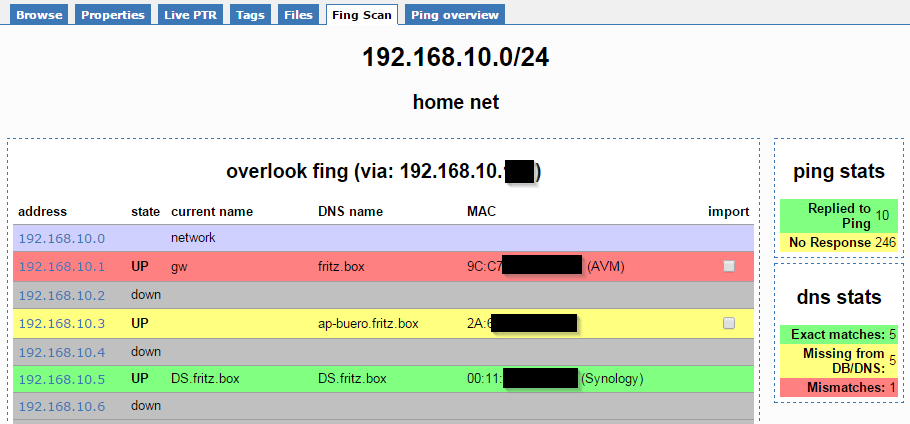
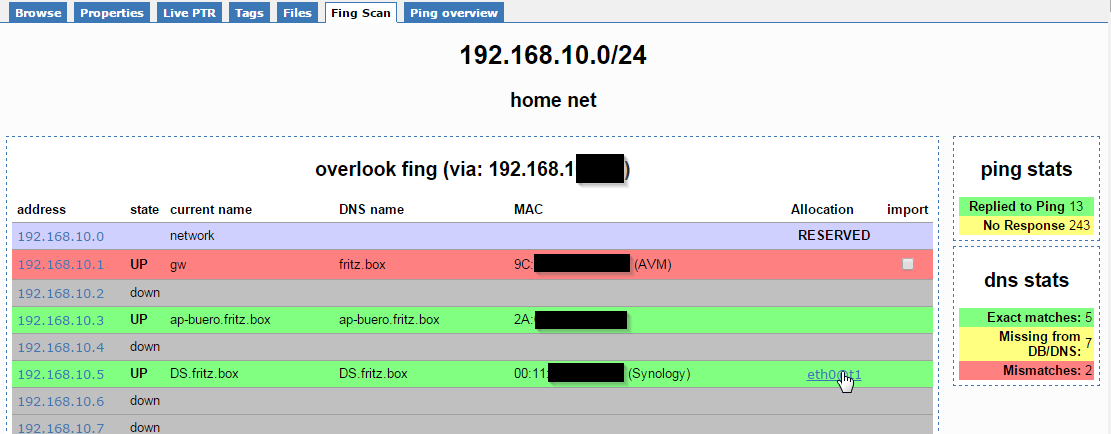
fingtab plugin: added allocation column

diff --git a/fingtab/fingtab.php b/fingtab/fingtab.php
@@ -1,7 +1,7 @@
 <?php
 /**
  * Fing network scan plugin
- * version 0.1
+ * version 0.2
  *
  * Written by Florian Pfaff
  *
@@ -23,6 +23,7 @@
 $tab['ipv4net']['fing'] = 'Fing Scan';
 $tabhandler['ipv4net']['fing'] = 'FingTab';
 $ophandler['ipv4net']['fing']['importFingData'] = 'importFingData';
+
 
 
 /**
@@ -162,6 +163,13 @@ function get_fing_scan($ip,$mask)
     return $known_ips;
 }
 
+/**
+ *
+ * address allocation setting (copied from interface.php)
+ *
+ */
+
+
 
 
 /**
@@ -172,6 +180,20 @@ function get_fing_scan($ip,$mask)
 function FingTab($id)
 {
     $can_import = permitted (NULL, NULL, 'importFingData');
+
+
+    //
+    // allocation settings
+    //
+    // address allocation code, IPv4 networks view
+    $aac_left = array
+    (
+        'regular' => '',
+        'virtual' => '<span class="aac-left" title="Loopback">L:</span>',
+        'shared' => '<span class="aac-left" title="Shared">S:</span>',
+        'router' => '<span class="aac-left" title="Router">R:</span>',
+        'point2point' => '<span class="aac-left" title="Point-to-point">P:</span>',
+    );
 
     //
     // header
@@ -233,7 +255,7 @@ function FingTab($id)
 
 
     echo "<table class='widetable' border=0 cellspacing=0 cellpadding=5 align='center'>\n";
-    echo "<tr><th class='tdleft'>address</th><th class='tdleft'>state</th><th class='tdleft'>current name</th><th class='tdleft'>DNS name</th><th class='tdleft'>MAC</th>";
+    echo "<tr><th class='tdleft'>address</th><th class='tdleft'>state</th><th class='tdleft'>current name</th><th class='tdleft'>DNS name</th><th class='tdleft'>MAC</th><th class='tdleft'>Allocation</th>";
     if ($can_import)
         echo '<th>import</th>';
     echo "</tr>\n";
@@ -307,6 +329,43 @@ function FingTab($id)
         echo "<td class=tdleft>${addr['name']}</td>";
         echo "<td class='tdleft'>".$fing_hostname."</td>";
         echo "<td class='tdleft'>".$fing_mac_vendor."</td>";
+
+
+        //allocation
+        echo "<td>";
+        $delim = '';
+        if ( $addr['reserved'] == 'yes')
+        {
+            echo "<strong>RESERVED</strong> ";
+            $delim = '; ';
+        }
+        foreach ($addr['allocs'] as $ref)
+        {
+            echo $delim . $aac_left[$ref['type']];
+            echo makeIPAllocLink ($ip_bin, $ref, TRUE);
+            $delim = '; ';
+        }
+        if ($delim != '')
+            $delim = '<br>';
+        foreach ($addr['vslist'] as $vs_id)
+        {
+            $vs = spotEntity ('ipv4vs', $vs_id);
+            echo $delim . mkA ("${vs['name']}:${vs['vport']}/${vs['proto']}", 'ipv4vs', $vs['id']) . '&rarr;';
+            $delim = '<br>';
+        }
+        foreach ($addr['vsglist'] as $vs_id)
+        {
+            $vs = spotEntity ('ipvs', $vs_id);
+            echo $delim . mkA ($vs['name'], 'ipvs', $vs['id']) . '&rarr;';
+            $delim = '<br>';
+        }
+        foreach ($addr['rsplist'] as $rsp_id)
+        {
+            $rsp = spotEntity ('ipv4rspool', $rsp_id);
+            echo "${delim}&rarr;" . mkA ($rsp['name'], 'ipv4rspool', $rsp['id']);
+            $delim = '<br>';
+        }
+        echo "</td>";
 
         // import column
         if ($can_import)
